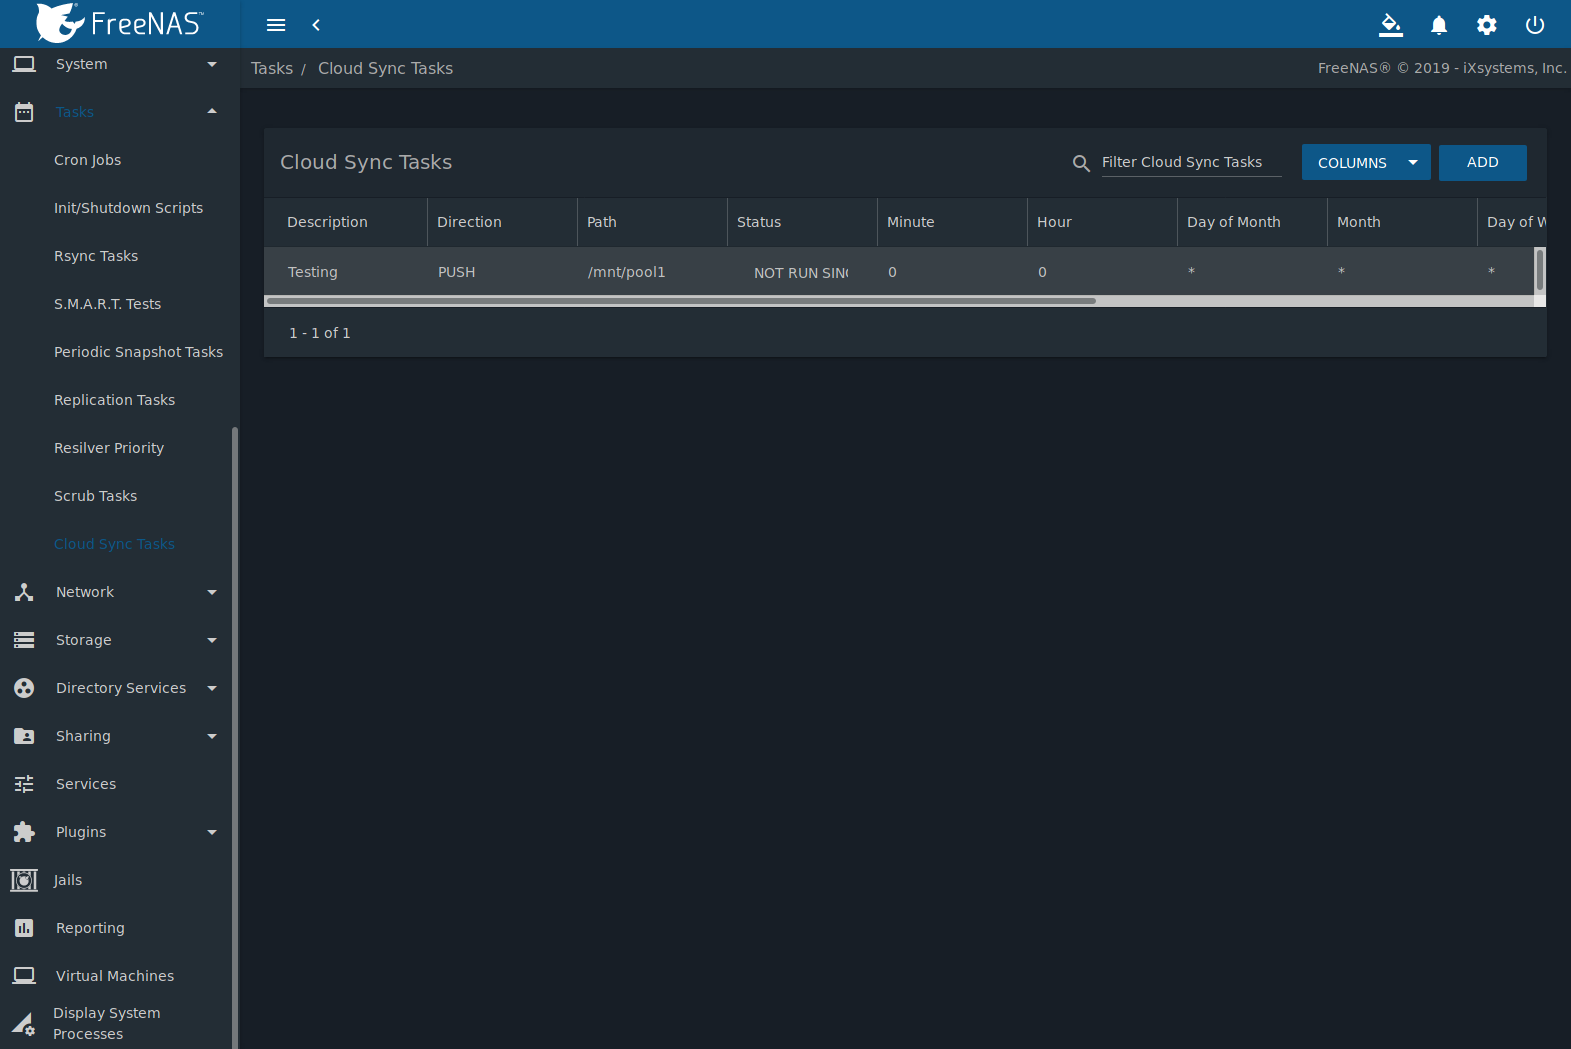
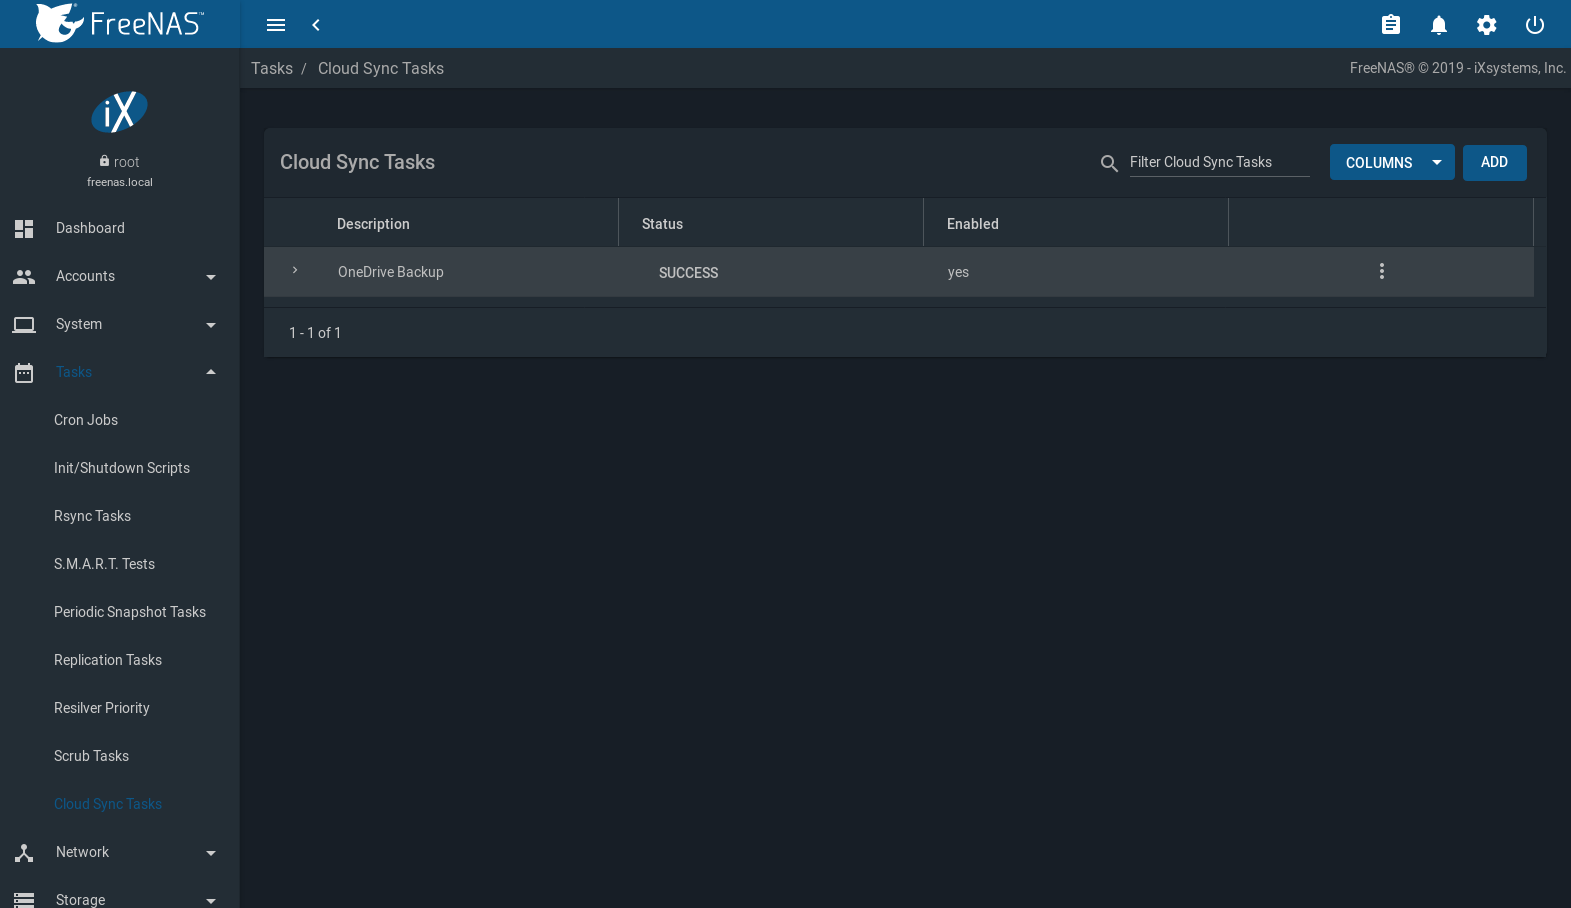
NAS-102302: Update default view of Tasks/Cloud Sync tasks Add intro entry for visual change. Update image showing default cloud sync task view. Review relevent docs for further changes needed: none found. HTML build test: no issues.

diff --git a/userguide/intro.rst b/userguide/intro.rst
@@ -223,11 +223,14 @@ These screen options have changed:
 * The :guilabel:`Hold Pending Snapshots` checkbox has been added to
   :menuselection:`Tasks --> Replication Tasks --> ADD`.
 
-* The :guilabel:`Use --fast-list` checkbox has been added to
-  :menuselection:`Tasks --> Cloud Sync Tasks --> ADD`.
-
 * The :guilabel:`Name` field has been added to
   :menuselection:`Tasks --> Replication Tasks --> Add`.
+
+* The default view has been adjusted in
+  :menuselection:`Tasks --> Cloud Sync Tasks`.
+
+* The :guilabel:`Use --fast-list` checkbox has been added to
+  :menuselection:`Tasks --> Cloud Sync Tasks --> ADD`.
 
 * The :guilabel:`Follow Symlinks` checkbox has been added to
   :menuselection:`Tasks --> Cloud Sync Tasks --> ADD`.
